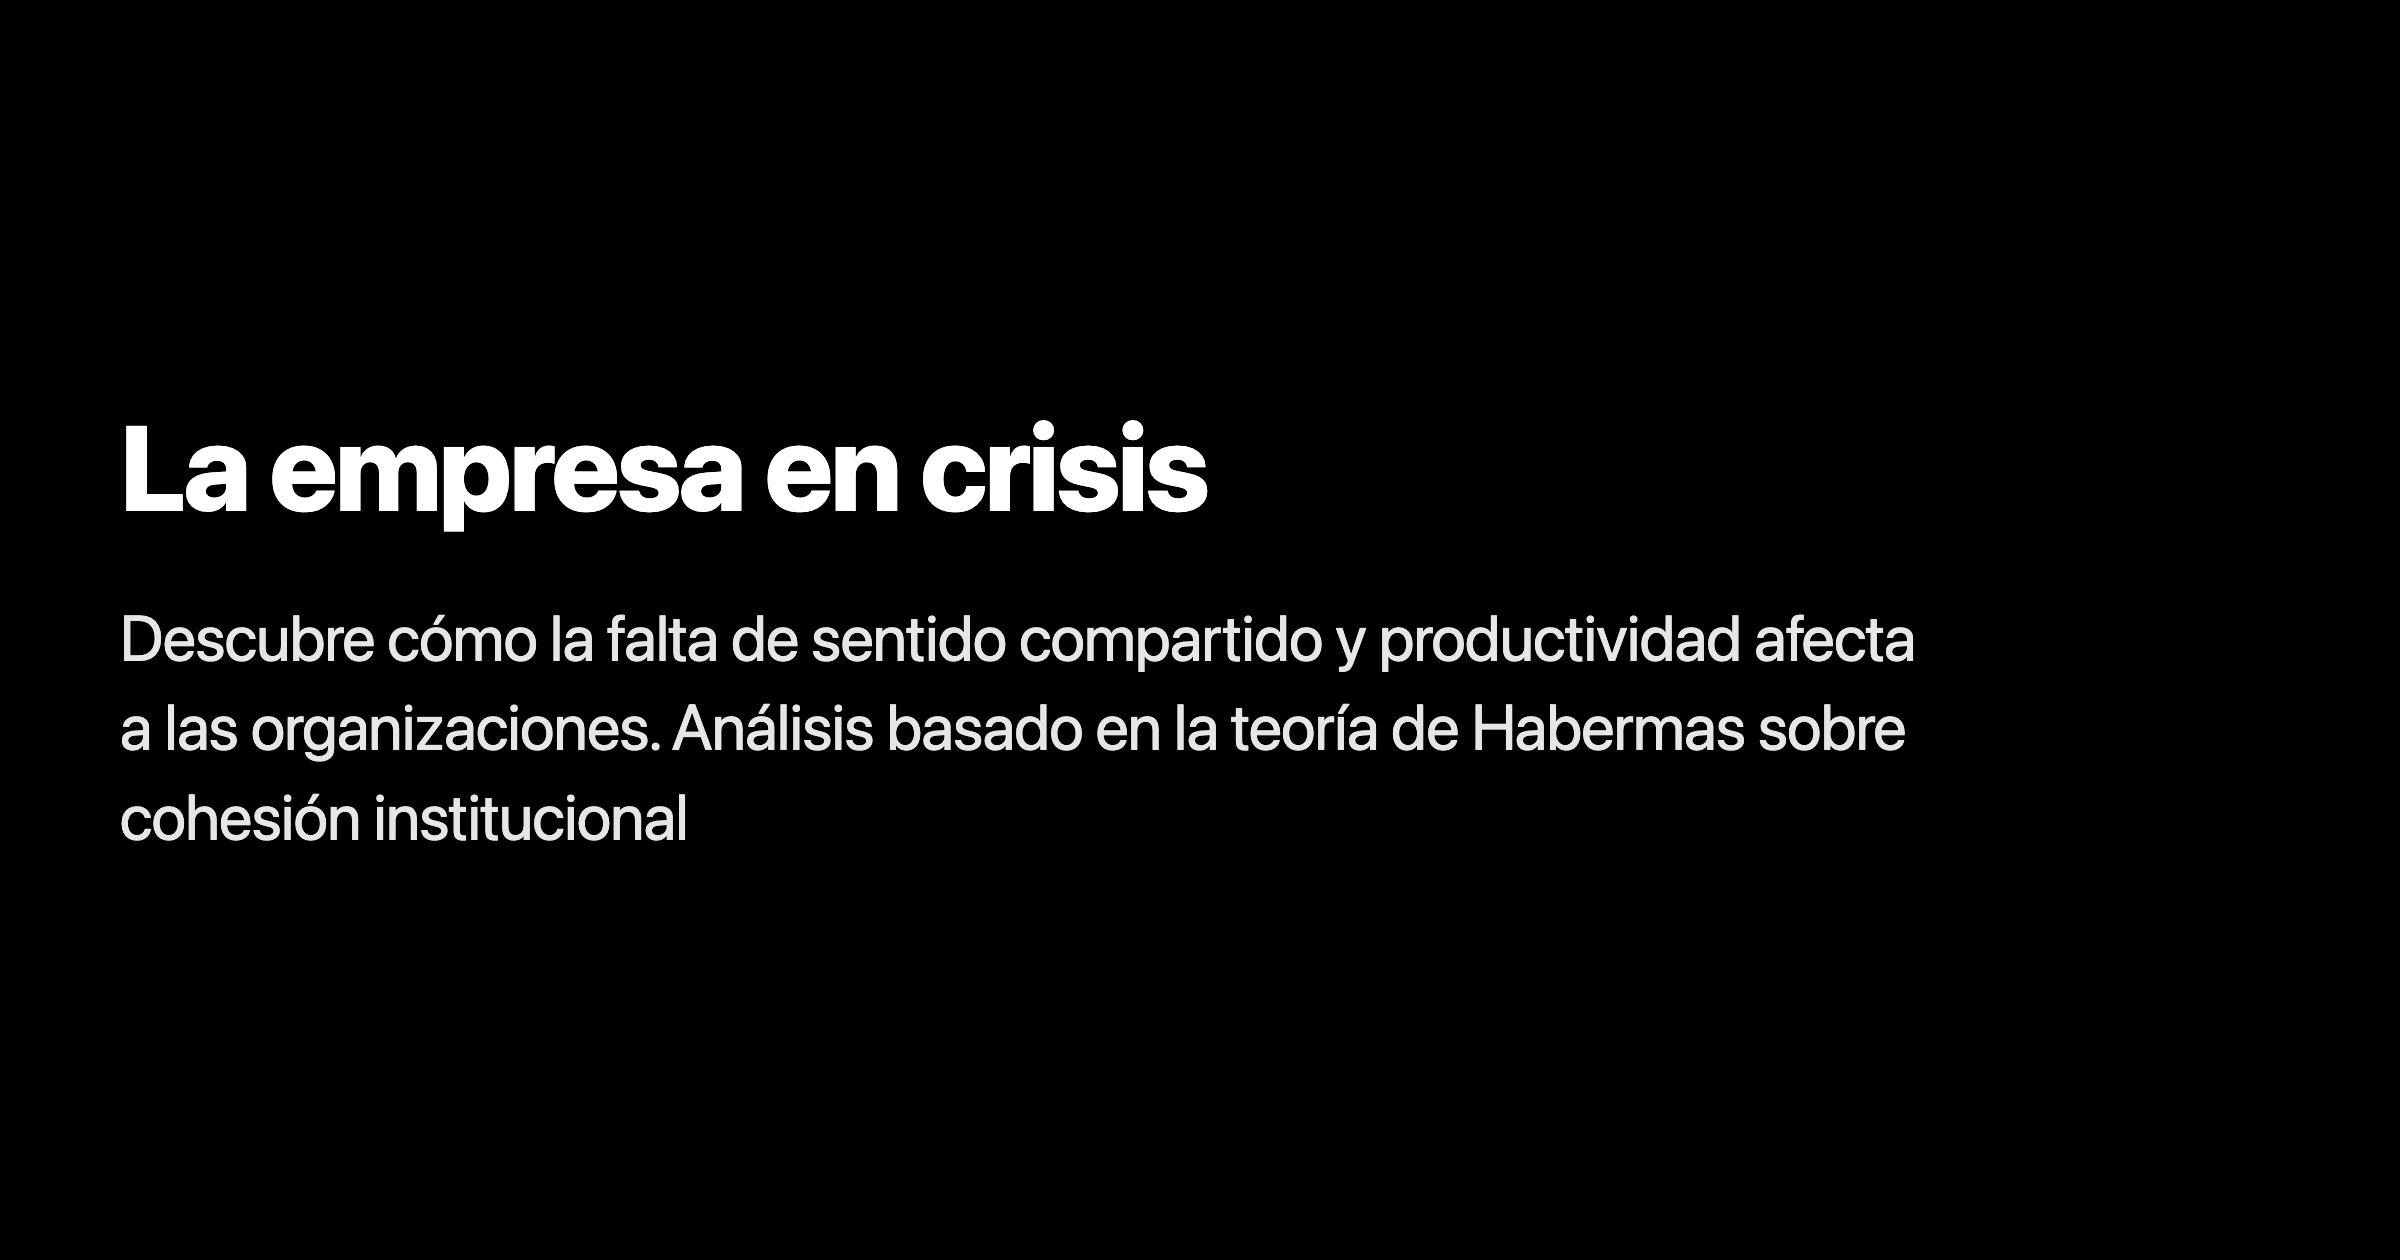
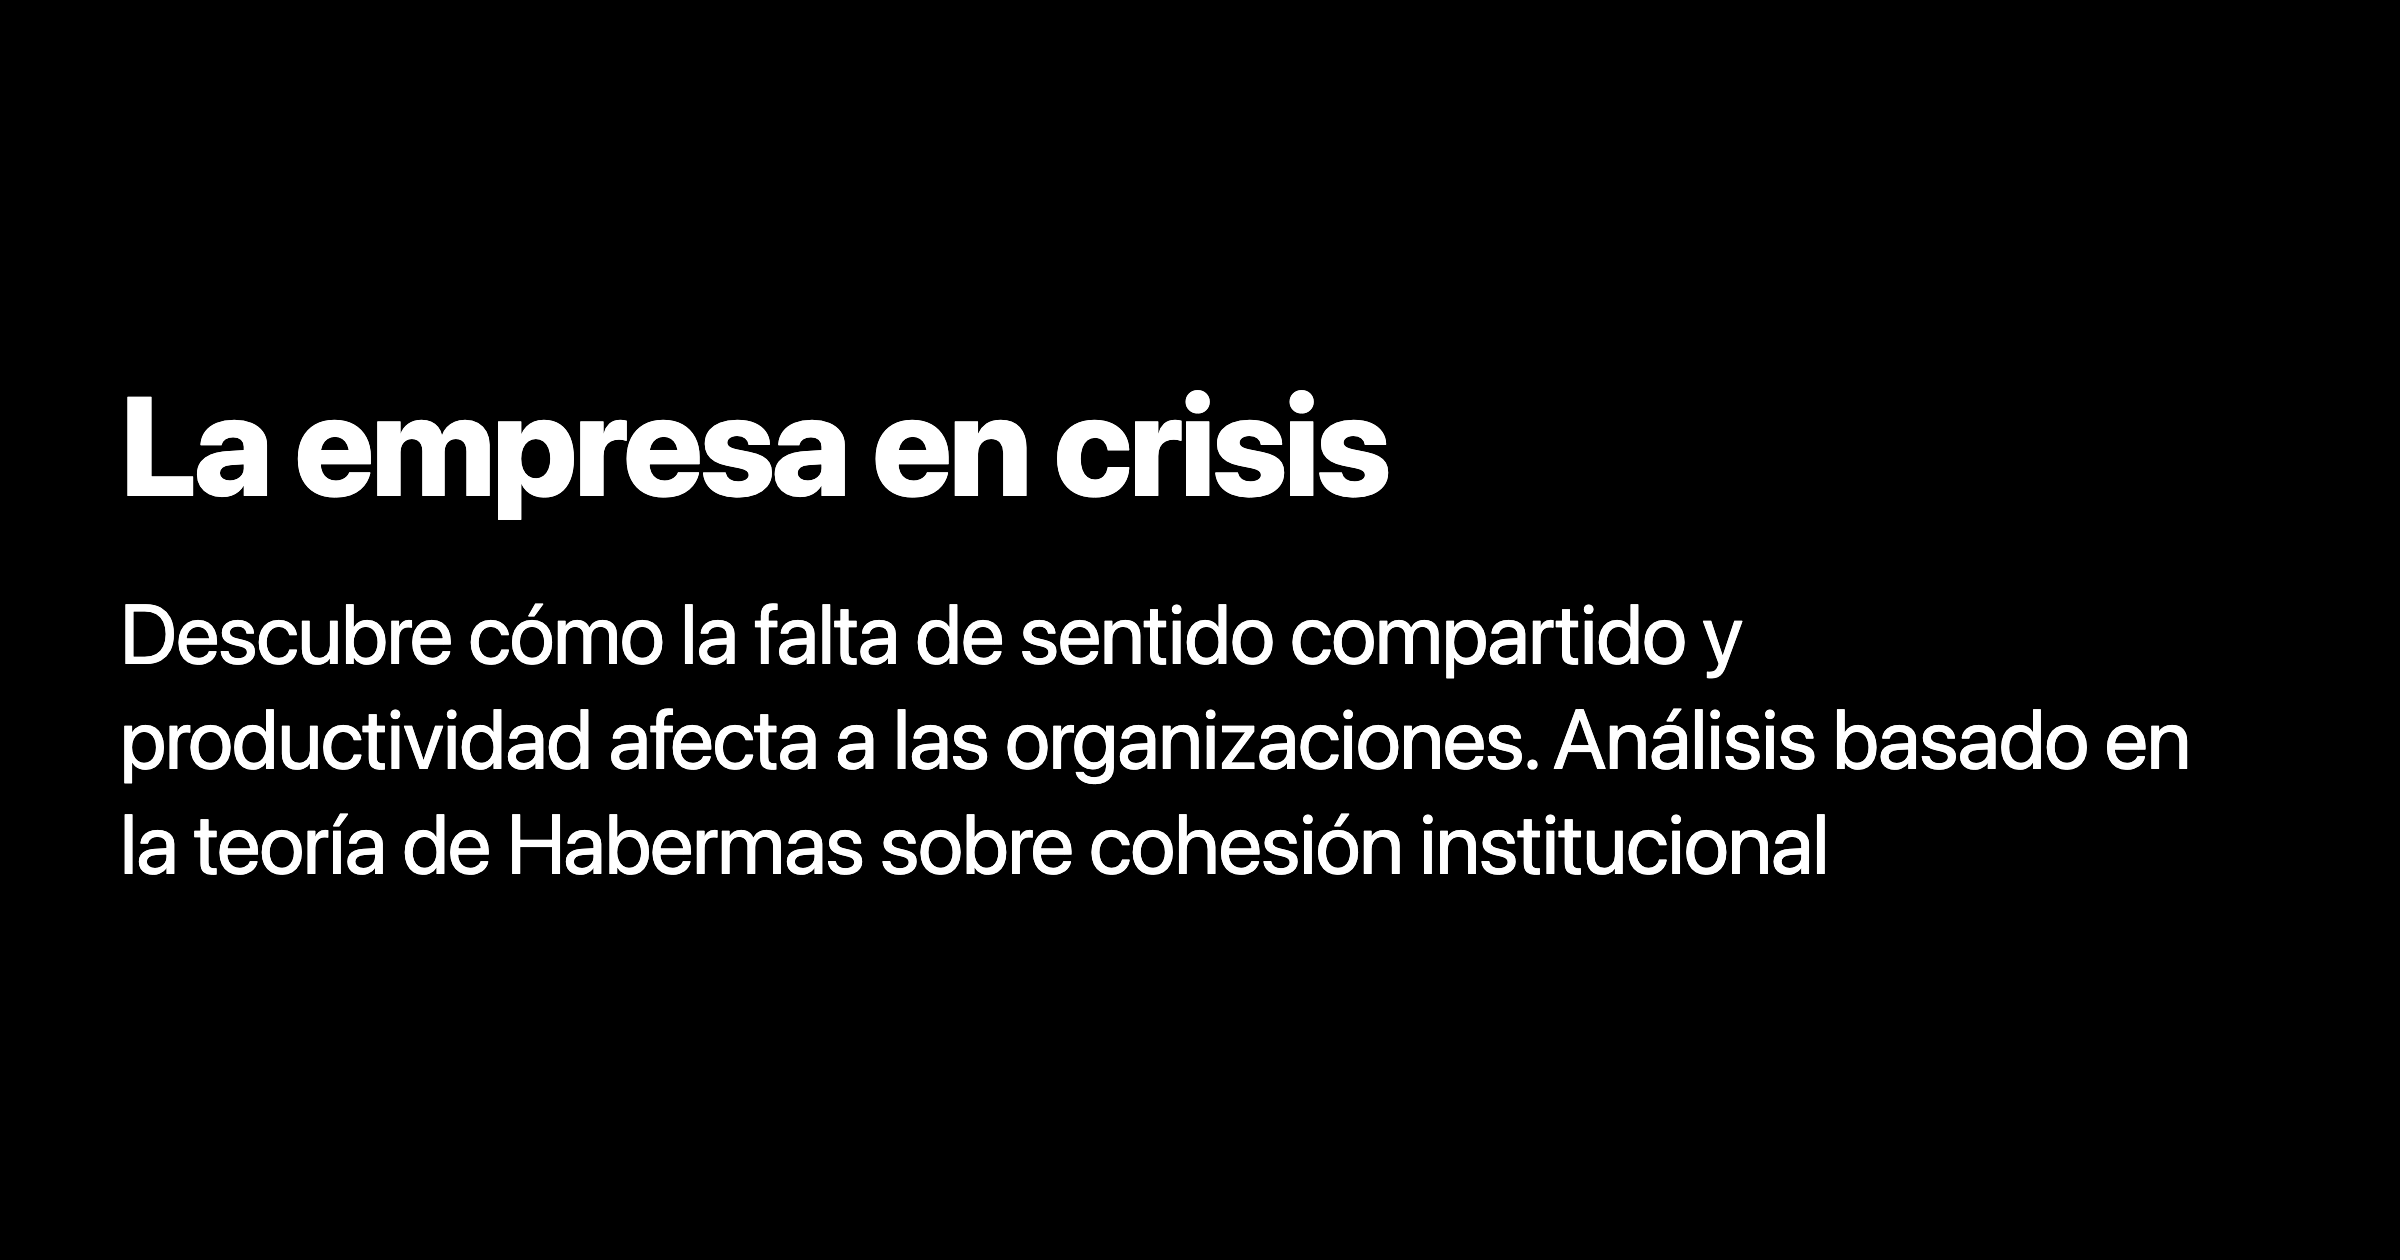
improve preview images

diff --git a/scripts/generate-og-images.ts b/scripts/generate-og-images.ts
@@ -2,6 +2,9 @@ import fs from 'fs';
 import path from 'path';
 import crypto from 'crypto';
 import puppeteer from 'puppeteer';
+import { fileURLToPath } from 'url';
+
+const __dirname = path.dirname(fileURLToPath(import.meta.url));
 
 interface FrontMatter {
   title: string;
@@ -162,26 +165,27 @@ async function generateOGImage(title: string, description: string, outputPath: s
                 color: white;
               }
               .container {
-                max-width: 2000px;
+                max-width: 2200px;
               }
               h1 {
-                font-size: 120px;
+                font-size: 140px;
                 line-height: 1.1;
                 margin: 0 0 60px;
                 font-weight: 800;
                 letter-spacing: -0.02em;
                 color: #ffffff;
                 text-align: left;
+                max-width: 2100px;
               }
               p {
-                font-size: 64px;
-                line-height: 1.4;
+                font-size: 84px;
+                line-height: 1.25;
                 margin: 0;
                 font-weight: 400;
                 letter-spacing: -0.01em;
                 color: #ffffff;
-                max-width: 1800px;
-                opacity: 0.9;
+                max-width: 2100px;
+                opacity: 1;
                 text-align: left;
               }
             </style>

diff --git a/content/posts/grit.md b/content/posts/grit.md
@@ -4,7 +4,7 @@ date = 2025-03-04T06:05:00-03:00
 draft = false
 tags = ["grit", "Angela Duckworth"]
 categories = ["desarrollo"]
-description = 'El talento innato, la pasión y motivación estan sobrevaloradas'
+description = 'El talento innato, la pasión y motivación estan sobrevalorados'
 +++
 
 No todo tiene que comenzar con palabras grandes como: **pasión**. A veces la curiosidad o la exploración nos pueden mostrar la relevancia de un tema o una práctica, transformándola en un interés duradero.
